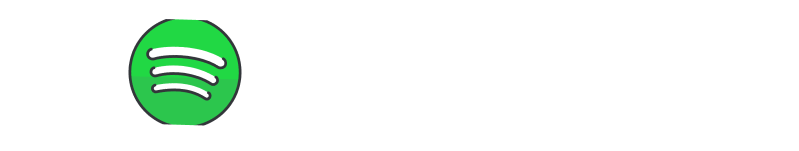
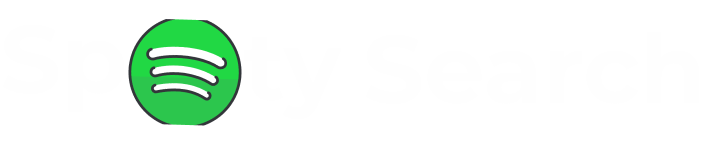
Added: Css fixes in the search list

Changed region(s): [[0.1554, 0.106, 0.3418, 0.8477]]

diff --git a/src/App.jsx b/src/App.jsx
@@ -1,9 +1,10 @@
 import axios from "axios";
 import { useState, useEffect } from "react";
 import "./App.css";
-import HeaderIcon from "./components/Title";
+import HeaderIcon from "./components/HeaderIcon";
 import LoginButton from "./components/LoginButton";
 import Subtitle from "./components/Subtitle";
+import vector from "./assets/vector.png"
 
 function App() {
 
@@ -35,6 +36,8 @@ function App() {
   const logout = () => {
     setToken("");
     window.localStorage.removeItem("token");
+    document.querySelector(".list").classList.add("hide");
+
   };
 
   const searchData = async (e) => {
@@ -45,7 +48,7 @@ function App() {
       },
       params: {
         q: searchKey,
-        limit: 3,
+        limit: 2,
         type: "album,artist,playlist,track",
       },
       
@@ -57,46 +60,38 @@ function App() {
     setPlaylist(data.playlists.items);
   };
 
-  const renderArtists = () => {
+  const RenderArtists = () => {
     return artists.map((artist) => (
-      <ul className="list" key={artist.id}>
-        <li className="item">
-          <img width="10%" src={artist.images[0].url} />
-          {artist.name}
+        <li className="item" key={artist.id}>
+          <img className="imgList" src={artist.images[0].url} />
+          <p className="titleItem">{artist.name}</p>
         </li>
-      </ul>
     ));
   };
-  const renderAlbum = () => {
+  const RenderAlbum = () => {
     return albums.map((album) => (
-      <ul className="list" key={album.id}>
-        <li className="item">
-          <img width="10%" src={album.images[0].url} />
-          {album.name}
+        <li className="item" key={album.id}>
+          <img className="imgList" src={album.images[0].url} />
+          <p className="titleItem">{album.name}</p>
         </li>
-      </ul>
     ));
   };
 
-  const renderTrack = () => {
+  const RenderTrack = () => {
     return tracks.map((track) => (
-      <ul className="list" key={track.id}>
-        <li className="item">
-          <img width="10%" src={track.album.images[0].url} />
-          {track.name}
+        <li className="item" key={track.id}>
+          <img className="imgList" src={track.album.images[0].url} />
+          <p className="titleItem">{track.name}</p>
         </li>
-      </ul>
     ));
   };
 
-  const renderPlaylits = () => {
+  const RenderPlaylits = () => {
     return playlists.map((playlist) => (
-      <ul className="list" key={playlist.id}>
-        <li className="item">
-          <img width="10%" src={playlist.images[0].url} />
-          {playlist.name}
+        <li className="item" key={playlist.id}>
+          <img className="imgList" src={playlist.images[0].url} />
+          <p className="titleItem">{playlist.name}</p>
         </li>
-      </ul>
     ));
   };
 
@@ -111,23 +106,27 @@ function App() {
           <button className="Btn-logout" onClick={logout}>Logout</button>
         )}
 
-        {token ? (
-           <form onSubmit={searchData}>
-           <input type="text" className="searchBar" aria-label="searchBar" onChange={(e) => setSearchKey(e.target.value)}  />
-           <button className="searchBtn"type={"submit"}></button>
+   {token ? (
+            
+           <form onSubmit={searchData} className="formSearch">
+           <input type="text" className="searchBar" aria-label="searchBar" onChange={(e) => setSearchKey(e.target.value)}/>
+           <button className="searchBtn" type={"submit"} aria-label="Search for music, artist, track or playlist"></button>
+            
            </form>
         ) : (
           <Subtitle></Subtitle>
         )}
 
       </header>
-      <main className="listContainer">
-        {renderArtists()}
-        {renderAlbum()}
-        {renderTrack()}
-        {renderPlaylits()}
-      </main>
-    </div>
+      <div className="listContainer">
+        <ul className="list">
+        <RenderArtists></RenderArtists>
+        <RenderAlbum></RenderAlbum>
+        <RenderTrack></RenderTrack>
+        <RenderPlaylits></RenderPlaylits>
+        </ul>
+      </div>
+</div>
   );
 }
 

diff --git a/src/App.css b/src/App.css
@@ -1,12 +1,19 @@
+ 
 body{
-  background-color:#000000d4;
-  
+  background-color:#2B2B2B;
 }
-.App{
-position: fixed;
+
+
+.Header{
+position: absolute;
 left: 50%;
 top: 50%;
 transform: translate(-50%, -50%);
+
+}
+
+.iconHome{
+  text-align:center;
 }
 
 .Btn-login{
@@ -51,6 +58,8 @@ color:#ffffffe3;
 letter-spacing:2px;
 font-weight:bold;
 font-size:18px;
+text-align:center;
+padding:2px;
 
 }
 
@@ -65,15 +74,94 @@ font-size:18px;
 }
 
 .searchBar{
- width:38vw;
+ width:43vw;
  height:3vw;
  border-radius:25px;
  background-color:#D1D9D3;
  border:2px solid #ffffffe3;
+ font-size:16px;
+ letter-spacing:1px;
+ padding:2px 1px 2px 13px;
 }
 
-.searchBtn{
-  position:fixed;
-  right:15vw;
-  bottom:0,5px;
+
+.searchBar:focus{
+  border:2px solid #ffffffe3;
+  outline:4px solid #56eb83;
+ }
+
+ .searchBtn{
+background-image:url('assets/vector.png');
+background-repeat:no-repeat;
+background-color:#D1D9D3;
+width:3vw;
+height:3vw;
+position:absolute;
+right:1.5rem; 
+ }
+
+
+ .searchBtn:focus{
+  outline:2px solid black;
+ }
+
+ .formSearch{
+  align-items: center;
+  display: flex;
+  flex-flow: row wrap;
+  justify-content: center;
+
   
+ }
+
+ .listContainer{
+ color:#fff;
+ display:flex;
+ flex-direction:column;
+ flex-wrap:wrap;
+ justify-content:center;
+ 
+ 
+
+ }
+ 
+ .App{
+  display:flex;
+  flex-direction:column;
+  flex-wrap:wrap;
+  
+ 
+  
+ }
+
+ .item{
+  margin-bottom:20px;
+  width:40rem;
+  
+ }
+ .list{
+  position:relative;
+  top:34rem;
+  left:20rem;
+  border-bottom:10px;
+  list-style:none;
+ 
+ }
+
+ .imgList{
+  border-radius:100%;
+  height:6vw;
+  width:15%;
+  margin-right:10px;
+ }
+
+ .titleItem{
+ display:inline;
+ position:relative;
+ left:10px;
+ bottom:3.5rem;
+ }
+
+ .hide{
+  display:none;
+ }

diff --git a/src/index.css b/src/index.css
@@ -4,7 +4,6 @@
   line-height: 24px;
   font-weight: 400;
 
-  color-scheme: light dark;
   color: rgba(255, 255, 255, 0.87);
   background-color: #242424;
 
@@ -44,13 +43,10 @@ button {
   font-size: 1em;
   font-weight: 500;
   font-family: inherit;
-  background-color: #1a1a1a;
   cursor: pointer;
   transition: border-color 0.25s;
 }
-button:hover {
-  border-color: #646cff;
-}
+
 button:focus,
 button:focus-visible {
   outline: 4px auto -webkit-focus-ring-color;
@@ -59,7 +55,7 @@ button:focus-visible {
 @media (prefers-color-scheme: light) {
   :root {
     color: #213547;
-    background-color: #ffffff;
+    
   }
   a:hover {
     color: #747bff;

diff --git a/src/components/LoginButton.jsx b/src/components/LoginButton.jsx
@@ -1,6 +1,6 @@
 const LoginButton = () => {
     const CLIENT_ID = "526e1a9972be468a904169c9f6f850e1"
-    const REDIRECT_URI = "http://localhost:5174/callback/"
+    const REDIRECT_URI = "http://localhost:5173/callback/"
     const AUTH_ENDPOINT = "https://accounts.spotify.com/authorize"
     const RESPONSE_TYPE = "token"
   

diff --git a/src/components/HeaderIcon.jsx b/src/components/HeaderIcon.jsx
@@ -3,7 +3,7 @@ import icon from "../assets/icon.png"
 const HeaderIcon = () => {
     return(
         <div>
-            <img src={icon} alt="home"></img>
+            <img src={icon} className="iconHome" alt="home"></img>
         </div>
     )
 }
